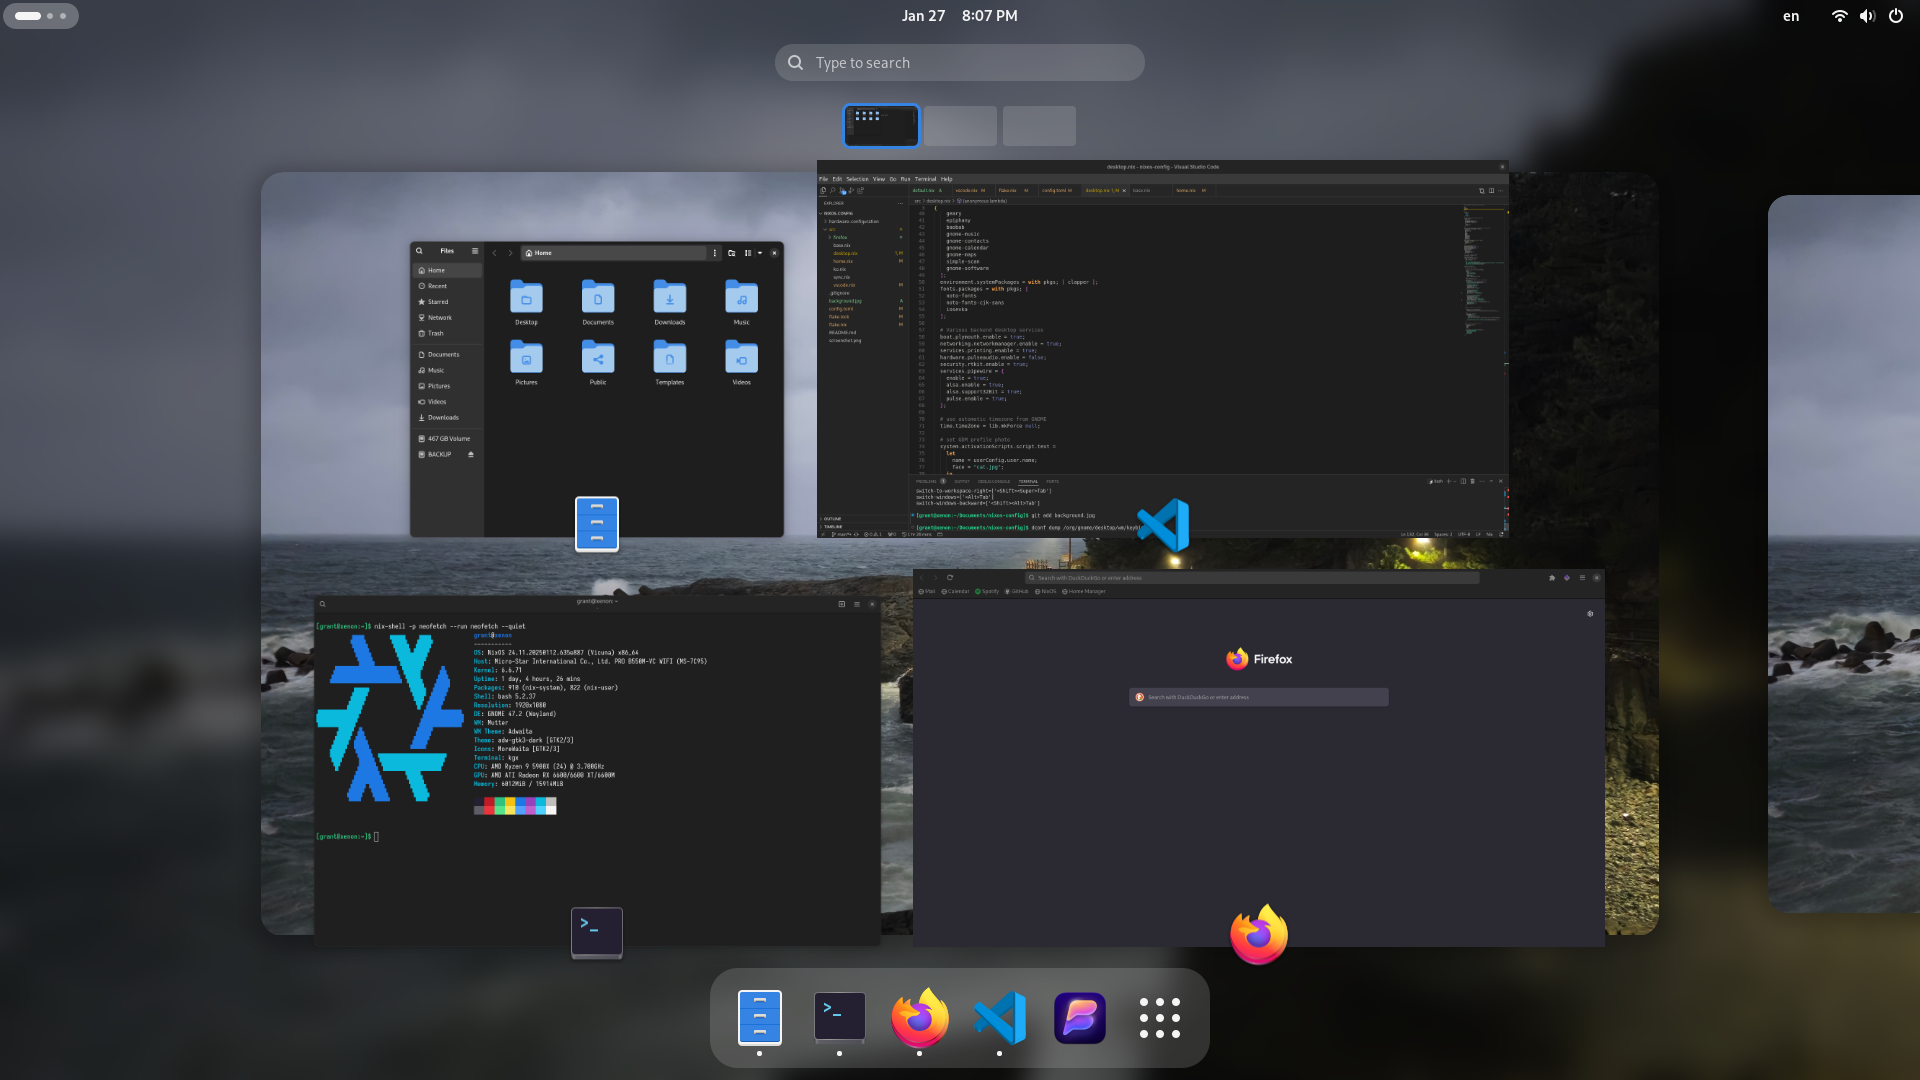
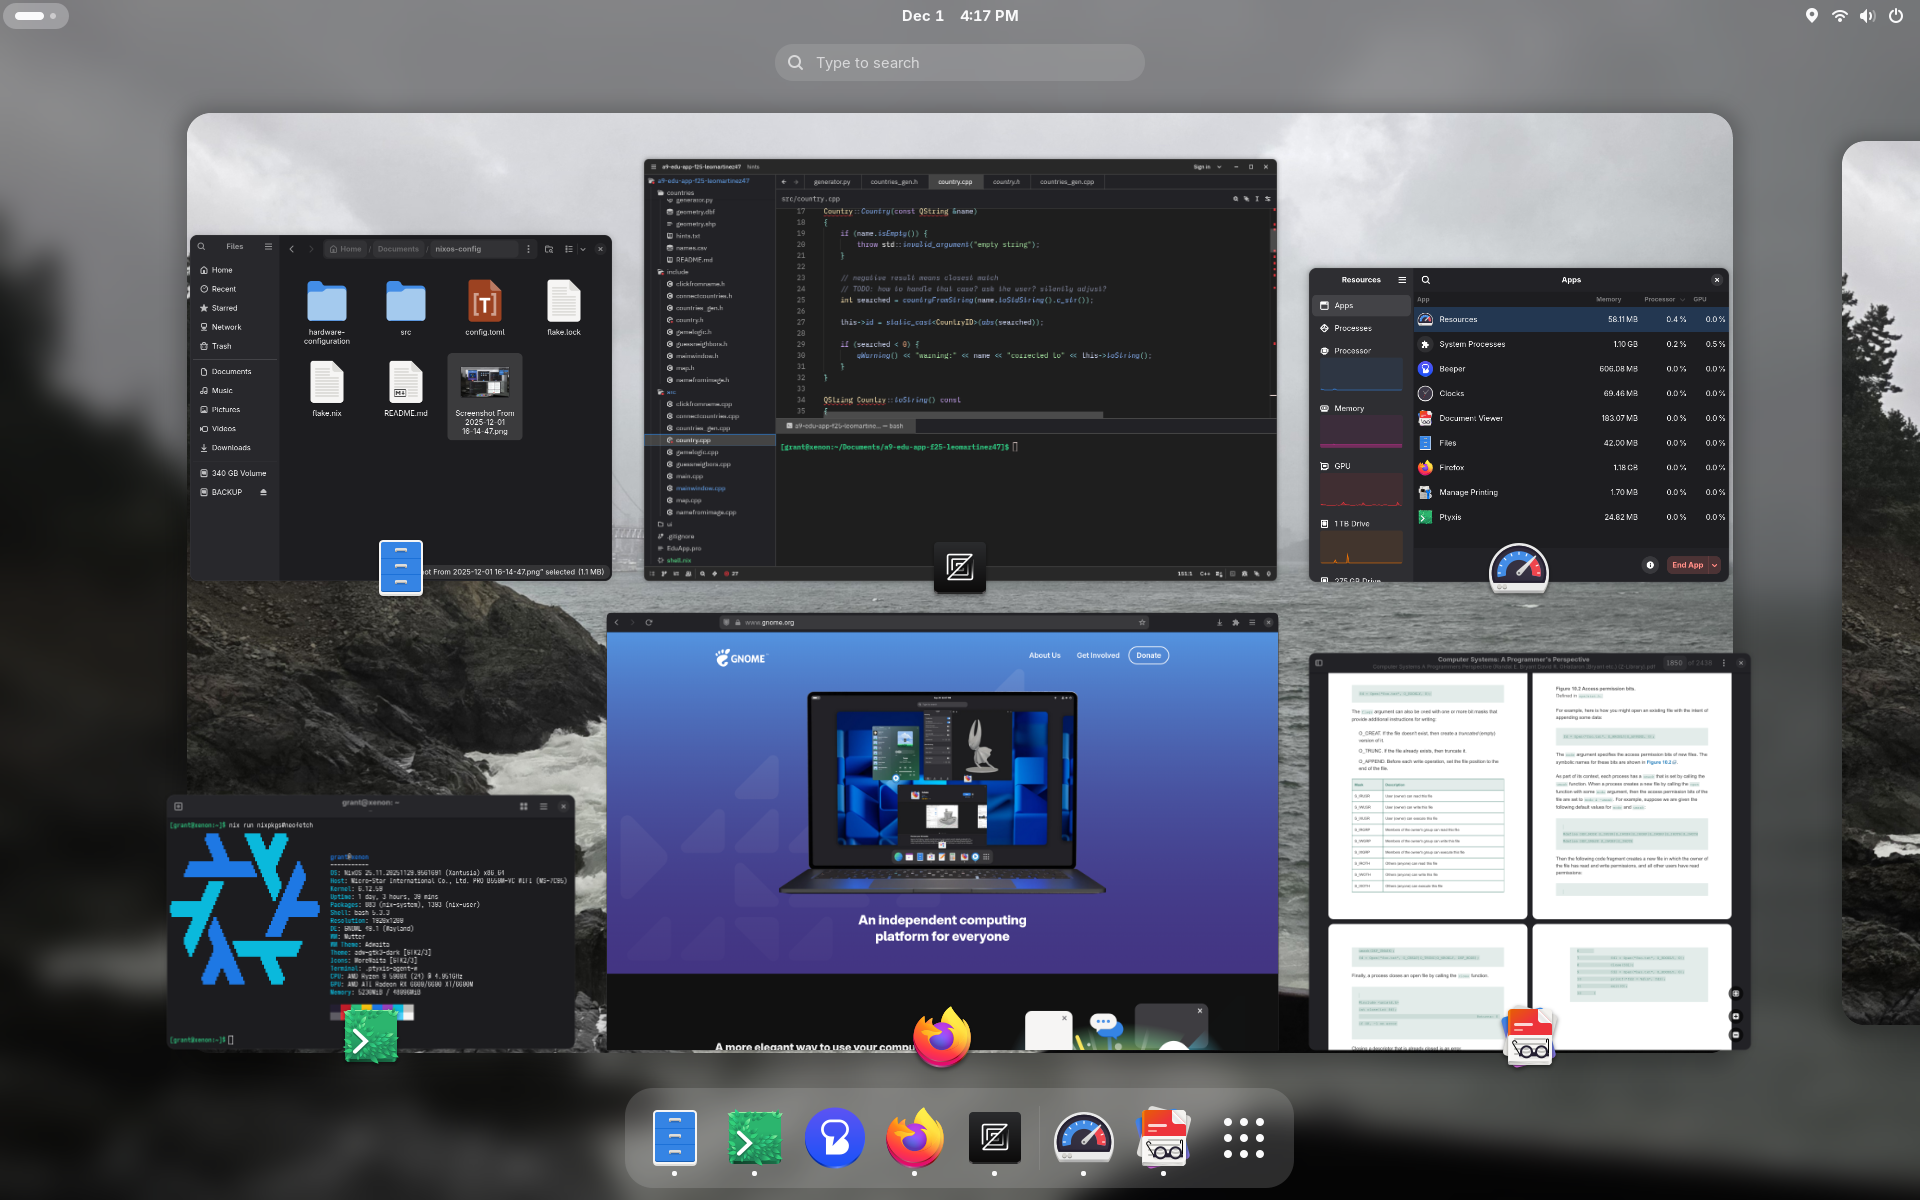
Update drives & screenshot

diff --git a/README.md b/README.md
@@ -2,11 +2,12 @@
 
 ![screenshot](./screenshot.png)
 
-This is my [NixOS](https://nixos.org) configuration. It includes a near-stock [GNOME](https://gnome.org) desktop environment with a few tweaks to make it a bit more cohesive.
+This is my [NixOS](https://nixos.org) 25.11 configuration for both my laptop and desktop.
+
+It includes a near-stock [GNOME](https://gnome.org) desktop environment with a few tweaks to make it a bit more cohesive.
 
 Features:
- - Personal info config file
+ - Personal info config file for user-specific items
  - Adwaita GTK3/QT theme, blurred GNOME Shell
- - Minimal Firefox w/GNOME theme & select extensions
- - VSCode w/Adwaita Theme and Nix/Rust/JS extensions
- - English/Korean IME input
+ - Minimal & secure Firefox w/GNOME theme & select extensions
+ - Zed w/Adwaita Theme
